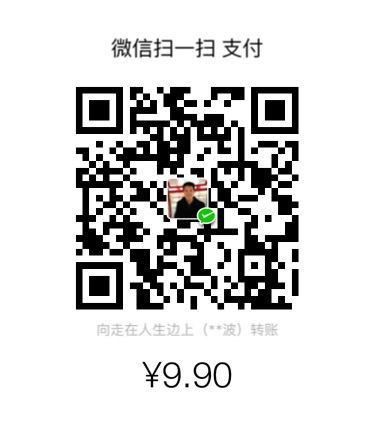
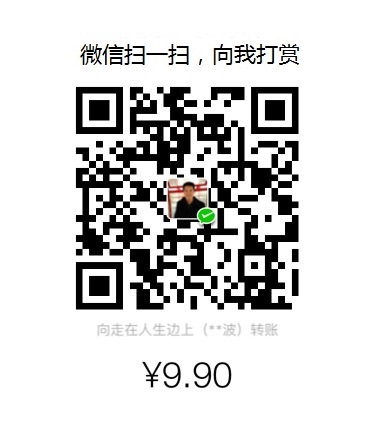
donate

Changed region(s): [[0.2053, 0.0924, 0.792, 0.154]]

diff --git a/source/donate/index.md b/source/donate/index.md
@@ -1,4 +1,4 @@
-title: 赞助
+title: 向我打赏
 date: 2015-10-29 21:06:03
 comments: false
 ---
